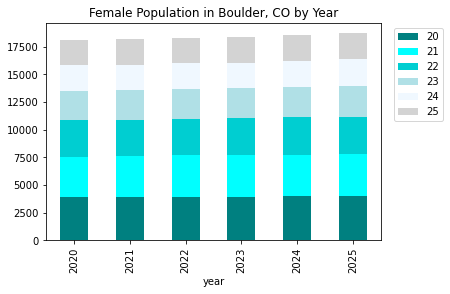
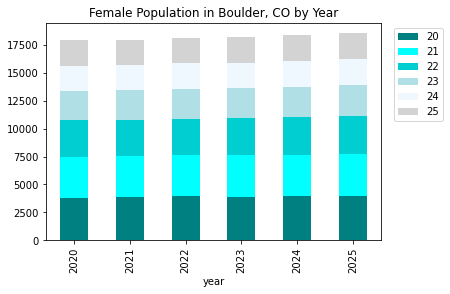
Update Api lessons w code demo and small github lesson typo fix (#679) 1-additional-content README.md blog changed_files.txt changed_image_files.txt changed_notebooks.txt changed_rmd_files.txt courses current_branch.txt images keys scripts tutorials workshops add small code demo to api lesson
1-additional-content README.md blog changed_files.txt changed_image_files.txt changed_notebooks.txt changed_rmd_files.txt courses current_branch.txt images keys scripts tutorials workshops json demo
 
 1-additional-content README.md blog changed_files.txt changed_image_files.txt changed_notebooks.txt changed_rmd_files.txt courses current_branch.txt images keys scripts tutorials workshops afew typos'
 
 1-additional-content README.md blog changed_files.txt changed_image_files.txt changed_notebooks.txt changed_rmd_files.txt courses current_branch.txt images keys scripts tutorials workshops minor syntax cleanup
 
 1-additional-content README.md blog changed_files.txt changed_image_files.txt changed_notebooks.txt changed_rmd_files.txt courses current_branch.txt images keys scripts tutorials workshops fix typo

diff --git a/_posts/courses/intermediate-eds-textbook/07-apis-twitter/01-apis-json/2018-02-05-api-01-intro.md b/_posts/courses/intermediate-eds-textbook/07-apis-twitter/01-apis-json/2018-02-05-api-01-intro.md
@@ -3,7 +3,7 @@ layout: single
 title: "Introduction to APIs"
 authors: ['Leah Wasser', 'Carson Farmer', 'Max Joseph', 'Martha Morrissey', 'Jenny Palomino']
 excerpt: "API's allow you to automate access and downloading data in your code to support open reproducible science. Learn how how to use API's to download data from the internet using open source python."
-modified: 2021-03-31
+modified: 2021-04-01
 category: [courses]
 class-lesson: ['intro-APIs-python']
 permalink: /courses/use-data-open-source-python/intro-to-apis/apis-in-python/
@@ -470,33 +470,33 @@ dem_data_20_25_female.head()
   <tbody>
     <tr>
       <th>0</th>
-      <td>2020</td>
+      <td>2025</td>
       <td>20</td>
-      <td>3868</td>
+      <td>3960</td>
     </tr>
     <tr>
       <th>1</th>
-      <td>2020</td>
-      <td>21</td>
-      <td>3684</td>
+      <td>2023</td>
+      <td>23</td>
+      <td>2673</td>
     </tr>
     <tr>
       <th>2</th>
-      <td>2020</td>
+      <td>2024</td>
       <td>22</td>
-      <td>3322</td>
+      <td>3361</td>
     </tr>
     <tr>
       <th>3</th>
       <td>2020</td>
-      <td>23</td>
-      <td>2633</td>
+      <td>21</td>
+      <td>3649</td>
     </tr>
     <tr>
       <th>4</th>
-      <td>2020</td>
+      <td>2021</td>
       <td>24</td>
-      <td>2285</td>
+      <td>2215</td>
     </tr>
   </tbody>
 </table>
@@ -547,29 +547,29 @@ dem_data_20_25_female.head()
   </thead>
   <tbody>
     <tr>
-      <th>2020</th>
+      <th>2025</th>
       <td>20</td>
-      <td>3868</td>
+      <td>3960</td>
+    </tr>
+    <tr>
+      <th>2023</th>
+      <td>23</td>
+      <td>2673</td>
+    </tr>
+    <tr>
+      <th>2024</th>
+      <td>22</td>
+      <td>3361</td>
     </tr>
     <tr>
       <th>2020</th>
       <td>21</td>
-      <td>3684</td>
+      <td>3649</td>
     </tr>
     <tr>
-      <th>2020</th>
-      <td>22</td>
-      <td>3322</td>
-    </tr>
-    <tr>
-      <th>2020</th>
-      <td>23</td>
-      <td>2633</td>
-    </tr>
-    <tr>
-      <th>2020</th>
+      <th>2021</th>
       <td>24</td>
-      <td>2285</td>
+      <td>2215</td>
     </tr>
   </tbody>
 </table>
@@ -630,48 +630,48 @@ dem_data_20_25_female_pivot.head()
   <tbody>
     <tr>
       <th>2020</th>
-      <td>3868</td>
-      <td>3684</td>
-      <td>3322</td>
-      <td>2633</td>
-      <td>2285</td>
-      <td>2269</td>
+      <td>3831</td>
+      <td>3649</td>
+      <td>3290</td>
+      <td>2608</td>
+      <td>2263</td>
+      <td>2247</td>
     </tr>
     <tr>
       <th>2021</th>
-      <td>3906</td>
-      <td>3703</td>
-      <td>3272</td>
-      <td>2737</td>
-      <td>2240</td>
-      <td>2287</td>
+      <td>3869</td>
+      <td>3666</td>
+      <td>3237</td>
+      <td>2705</td>
+      <td>2215</td>
+      <td>2265</td>
     </tr>
     <tr>
       <th>2022</th>
-      <td>3953</td>
-      <td>3742</td>
-      <td>3292</td>
-      <td>2689</td>
-      <td>2345</td>
-      <td>2243</td>
+      <td>3924</td>
+      <td>3705</td>
+      <td>3255</td>
+      <td>2653</td>
+      <td>2314</td>
+      <td>2218</td>
     </tr>
     <tr>
       <th>2023</th>
-      <td>3917</td>
-      <td>3791</td>
-      <td>3332</td>
-      <td>2710</td>
-      <td>2299</td>
-      <td>2351</td>
+      <td>3897</td>
+      <td>3761</td>
+      <td>3295</td>
+      <td>2673</td>
+      <td>2264</td>
+      <td>2319</td>
     </tr>
     <tr>
       <th>2024</th>
-      <td>3956</td>
-      <td>3763</td>
-      <td>3390</td>
-      <td>2760</td>
-      <td>2331</td>
-      <td>2316</td>
+      <td>3937</td>
+      <td>3743</td>
+      <td>3361</td>
+      <td>2723</td>
+      <td>2294</td>
+      <td>2281</td>
     </tr>
   </tbody>
 </table>
